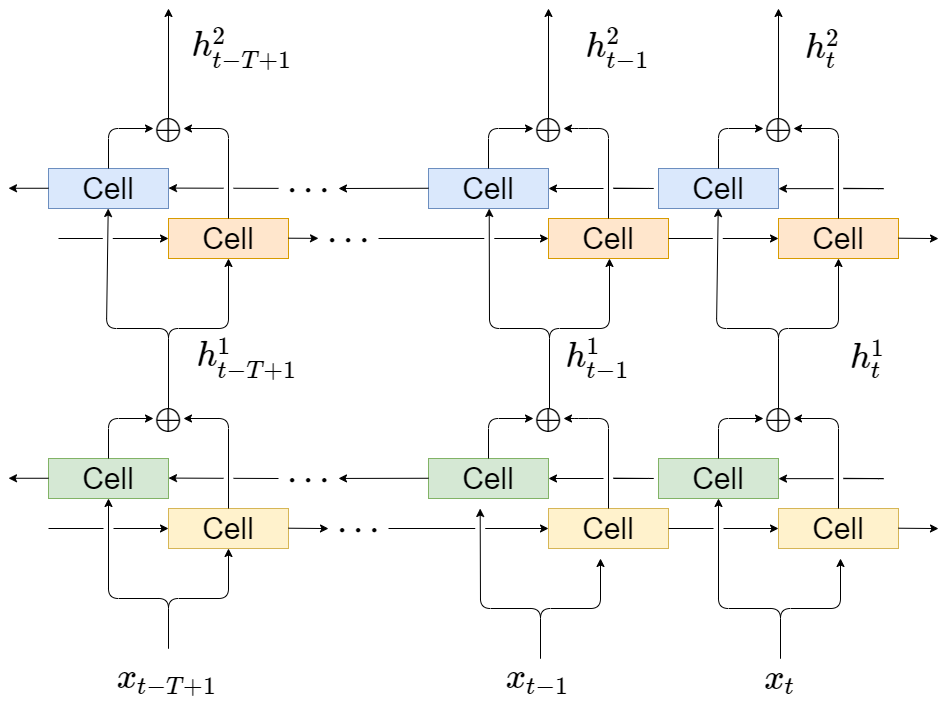
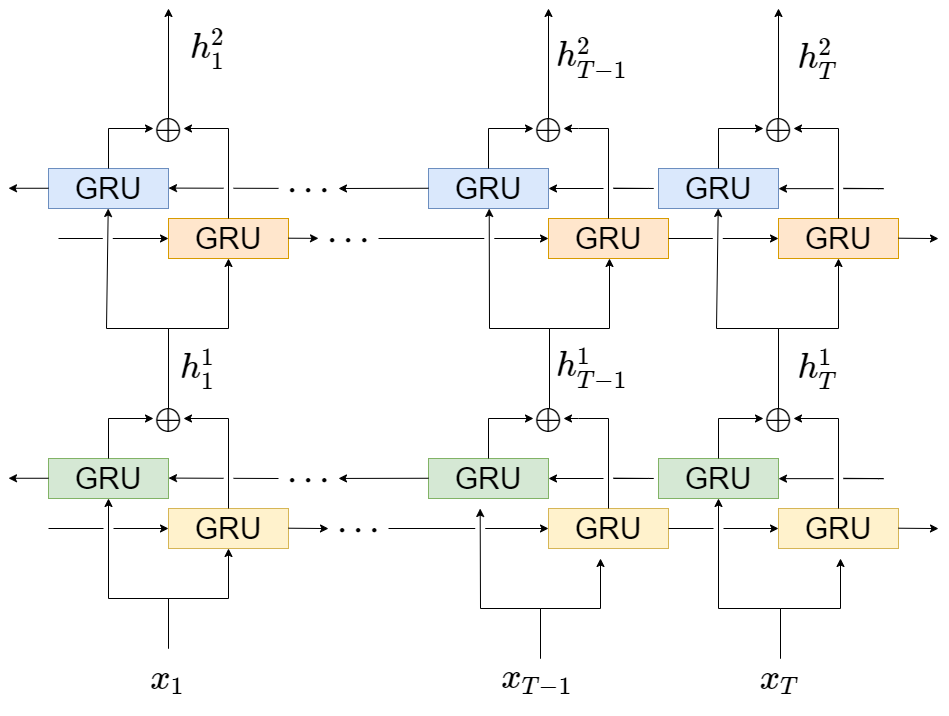
thesis

diff --git a/Thesis_Wu/Neural_decoder_design.tex b/Thesis_Wu/Neural_decoder_design.tex
@@ -400,6 +400,8 @@ However both of them have drawbacks of saturation problem,
 e.g., the derivative of input value outside the range [-4, +4] will be nearly 0 after activations, 
 making its gradient vanish and slowing down learninig process.
 The solution about this issue will be addressed in Section~\ref{sec:layer_normalization}.
+\\
+
 % \end{multicols}
 
 \begin{figure}[H]
@@ -428,26 +430,29 @@ In the process of calculating each gate value (Equation \ref{eq:reset_gate},
 hidden state from last time step ($h_{t-1}$) will be multiplied by unique weights ($W_r$, $W_z$, $W$),
 and so does the input tensor ($x_t$) will be multiplied by its own weights ($U_r$, $U_z$, $U$).
 After the multiplication, 3 biases ($b_r$, $b_z$, $b$) will be added to the results before entering the activation functions
+\\
 
-A hyperparameter named \textbf{hidden dimension} or \textbf{number of hidden units} specified the dimensions for all hidden state in each time step, which is vector.
-This hyperparameter also determines the number of each gates, 
+A hyperparameter named \textbf{hidden dimension} or \textbf{number of hidden units} specified the dimensions for all hidden state in each time step,
+which is a vector.
+This hyperparameter also determines the number for each gates, 
 i.e. with the setting of $u$ hidden units,
 the shape of all hidden states should be $1 \times u$ and there will be $u$ reset gates, 
 $u$ update gates in each cell.
-Typically with the larger the hidden dimension, 
-the more complex the model will be.
+Typically with larger hidden dimension, 
+more complex the model will be.
 But highter complexity does not guarantee better performance since sophisticated models tend to overfit.
+\\
 
 Figure \ref{fig:two_layer_GRU} demonstrated how hidden states are passed from one layer to another.
 Where $T$ is the tap size of our input,
 representing how many past time bins to be fed into the model just to decode the current kinematics.
-The input data at each time step contains the firing rate of this moment $x_t$ and the past firing rate from $x_{t-n+1}$ to $x_{t-1}$.
-Outputs of our model are the predicted kinematic variables for time bin $t$.
+The input data at each time step $t$ contains the firing rate of this moment $x_t$ and the past firing rate from $x_{1}$ to $x_{t-1}$.
+
 % \end{multicols}
 
 \begin{figure}[H]
     \begin{center}
-        \includegraphics[width=0.5\textwidth]{1-way_2-layer_GRU.png}
+        \includegraphics[width=0.5\textwidth]{1-way_2_layer_GRU.png}
         \captionsetup{width=0.5\textwidth}
         \caption{Architecture of One-way Two-layer GRU}
         \fontsize{10}{12}
@@ -457,12 +462,14 @@ Outputs of our model are the predicted kinematic variables for time bin $t$.
 
 % \begin{multicols}{2}
 In the first GRU layer, $T$ bins of firing rate are fed chronologically.
-Hidden state $h^{j}_{i}$ denotes the output tensor from the cell in timestep $i$ and layer $j$, and will be the input to the cell in timestep $i+1$ and layer $j+1$.
+Hidden state $h^{j}_{i}$ denotes the output tensor from the cell in timestep $i$ and layer $j$, 
+and will be the input of the GRU cell in timestep $i+1$ and layer $j+1$.
 The size of $h^{j}_{i}$ should be $1 \times u$ since $u$ is a predefined parameter.
-Ideally tensor $h^{2}_{t}$ should contain the information from the firing rate $x_{t-n+1}$ to $x_{t-1}$, thus by feeding it to some fully connect layers we can acquire the desired output.
+Ideally the tensor $h^{2}_{t}$ should also contains the information from the firing rate $x_{1}$ to $x_{t-1}$, thus by feeding it to some fully connect layers we can acquire the desired output.
+\\
 
-The so called bidirectional RNN is made by simply adding another feeding of the same input sequence in reverse order.
-As in Figure \ref{fig:bidir_two_layer_GRU}, but the size of the hidden state $h^{j}_{i}$ will be $1 \times 2u$,
+The bidirectional RNN is designed by simply training another GRU with the same input sequence but in reverse order.
+As in Figure \ref{fig:bidir_two_layer_GRU}, but the size of the hidden state tensor $h^{j}_{i}$ should be $1 \times 2u$ in this case,
 since the first half of the this vector contains the information by feeding input sequence forward the last half by feeding backward.
 
 
@@ -485,6 +492,22 @@ since the first half of the this vector contains the information by feeding inpu
     \end{center}
 \end{figure}
 
+The benfit of implementing bidirectional RNN is that it can see a broader range of input sequence than one-way RNN.
+As illustrated in Figure~\ref{fig:bidir_RNN_explain},
+the output at time step $t$ contains only the memory from $1~t$ in one-way RNN.
+But it covers the whole sequence in bidirectional RNN.
+
+\begin{figure}[H]
+    \begin{center}
+        \includegraphics[width=0.6\textwidth]{bidir_RNN_explain.png}
+        \captionsetup{width=0.5\textwidth}
+        \caption{Benefit of bidirectional RNN}
+        \fontsize{10}{12}
+        \label{fig:bidir_RNN_explain}
+    \end{center}
+\end{figure}
+
+
 It is the internal dynamics of the GRU to determine the degree of forget or keep the previous information in every time step.
 In Section~\ref{sec:internal_dynamics_of_network} we provided figures to visualize these internal dynamics.
 
@@ -499,6 +522,7 @@ Internal covariate shift is a problem caused by the variant distribution of the 
 which are used to be the input of its following layer.
 It can be mitigated by fixing the mean and the variance of the summed inputs within each layer.
 By the approach of normalization it can also provent the gradient vanishing problem from happening, which was brought up in Section~\ref{sec:RNN}.
+\\
 
 Here is the computation of mean and variance from all the hidden units in the same layer:
 
@@ -515,6 +539,7 @@ all the hidden units in a layer share the same normalization terms $\mu$ and $\s
 Unlike batch normalization, 
 layer normalization does not impose any constraint on the size of a mini-batch,
 such that it cam be implemented to the model with batch size 1.
+\\
 
 The original layer normalization methods is computed within a RNN cell.
 In a standard RNN, 
@@ -535,6 +560,7 @@ The layer normalizationed recurrent layer re-centers and re-scales its activatio
 \noindent where $\odot$ is the elementwise multiplication, 
 and $b$, $g$ are defined as the bias and gain parameters of the same dimension as $h^t$.
 $f$ is the activation function in the RNN cell, it could be a sigmoid or hyperbolic tangent function.
+\\
 
 We define layer normalization as a function mapping $LN: \mathbb{R}^D \rightarrow \mathbb{R}^D$ with two set of adaptive parameters,
 gains $\alpha$ and biases $\beta$:
@@ -574,6 +600,7 @@ When implementing it on GRU,
 \end{align}
 
 \noindent where $\alpha_i$ and $\beta_i$ are initialized as vector of zeros and ones, respectively.
+\\
 
 The affect of the layer normalization is illustrated in Figure~\ref{fig:layer_norm_before_after},
 where we simulated two extreme cases of hidden state distributions.
@@ -650,8 +677,7 @@ which is defined as
 \noindent such that the summation of the vector $ \ba $ is $1$.
 The embedding vector $ \bm \in \mathbb{R}^{1 \times 2u} $ is the new features with enhanced temporal attribute.
 Every single feature from each neural time bin has been annotated by an score.
-
-% This explain fc in matrix form https://stackoverflow.com/questions/51608879/weights-matrix-final-fully-connected-layer
+\\ % This explain fc in matrix form https://stackoverflow.com/questions/51608879/weights-matrix-final-fully-connected-layer
 
 The vector representation may focues on only one specific part of the input sequence, 
 and is expected to reflect only one \textit{aspect} in the sequence.
@@ -667,6 +693,7 @@ The representations from Eqation \ref{eq:annotation_vector_calculation} is now c
 \end{align}
 \noindent where the vector $ \bw_{s2}  \in \mathbb{R}^{ 1 \times d_a } $ turned into a matrix$ \bW_{s2} \in \mathbb{R}^{r \times d_a }  $,
 and the embedding vector $ \bm \in \mathbb{R}^{1 \times 2u} $ became a matrix $\bM \in \mathbb{R}^{r \times 2u} $.
+\\
 
 Eqation \ref{eq:annotation_matrix_calculation} is equivalent to a 2-layer MLP.
 The first layer reduces the dimension from $2u$ to $d_a$, 
@@ -693,7 +720,6 @@ and the second layer reduces the dimension from $d_a$ to $r$, as illustrated in 
         \label{fig:multiply_attetion_vecotr_to_hidden_states}
     \end{center}
 \end{figure}
-
 
 
 \subsection{Penalization Term}
@@ -734,12 +760,14 @@ and $\norm{\bullet}_F$ denotes the Frobenius norm of a matrix, defined as
 \noindent Figure~\ref{fig:penalization_term} showed that the summation of the squared value of every element in the matrix $\bA \bA^{\intercal} - \bI$ should be closed to $0$.
 By implementing $P$ as a loss function,
 its loss will be propagated backwards to alter the weights in the our attention module.
+\\
 
 To further explain its concept,
 let's start by considering two different annotation vectors $ \ba^i \in \mathbb{R}^{1 \times T} $ and $ \ba^j \in \mathbb{R}^{1 \times T}$.
 Due to the fact that $ \text{softmax} $ is implemented,
 the summation from all the element within the same vector is $1$.
 The values in each vector can be considered as probability distribution.
+\\
 
 In an extreme case, 
 there should have the no overlapping between the probability distributions in these two vectors, 
@@ -754,6 +782,7 @@ The diagonal elements $ \ba^i \cdot \ba^i $, i=1 $\sim$ r, on the other hand,
 will have a maximum value of $ 1 $ in an extreme case that all attention concentrates on one single time bin.
 Thus substracting an identity matrix from $A A^{\intercal}$ will force each attention vector $a^i$ to focus on as few features as it can,
 concnetrating on a single aspect.
+\\
 
 % \end{multicols}
 

diff --git a/Thesis_Wu/Main/Main.tex b/Thesis_Wu/Main/Main.tex
@@ -103,7 +103,10 @@
 \usepackage{breakcites}
 \usepackage{../macros_tn} %Loads all my macros
 \usepackage{geometry}
-\usepackage[colorinlistoftodos,prependcaption,textsize=small]{todonotes}   % notes showed
+
+\usepackage[colorinlistoftodos,prependcaption,textsize=small]{todonotes}   % notes showed \usepackage[disable]{todonotes}
+% \usepackage[disable]{todonotes}
+
 % \usepackage[disable]{todonotes} % hide all todos
 \usepackage{enumitem}
 \usepackage{indentfirst}
